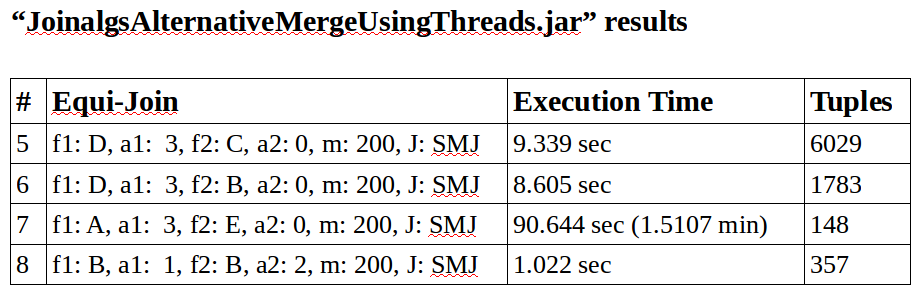
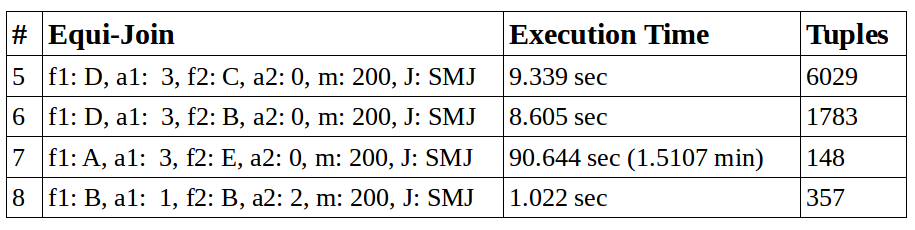
NLJ-SMJ

Changed region(s): [[0.0, 0.0304, 1.0, 0.9739]]

diff --git a/README.md b/README.md
@@ -92,16 +92,20 @@ Please note that the “.csv” relations to be joined, should be copied in the 
 
 In all the executions done, memory does not exceed the limit of 200 buffers. In the following table, the execution time of some equi-joins are shown:
 
+**"joinalgs.jar" results**
 ![joinalgs.jar](/resultTimes/joinalgs.jar_results.png)
 
 The following table contains the results of the implementation that uses threads. Threads are only used by the SMJ algorithm:
 
+**"joinalgsUsingThreads.jar" results**
 ![joinalgsUsingThreads.jar](/resultTimes/joinalgsUsingThreads.jar_results.png)
 
 These are the results produced while running the equi-join algorithms by using an alternative slower merge method:
 
+**"joinalgsAlternativeMerge.jar" results**
 ![joinalgsAlternativeMerge.jar](/resultTimes/joinalgsAlternativeMerge.jar_results.png)
 
+**"joinalgsAlternativeMergeUsingThreads.jar" results**
 ![joinalgsAlternativeMergeUsingThreads.jar](/resultTimes/joinalgsAlternativeMergeUsingThreads.jar_results.png)
 
 
